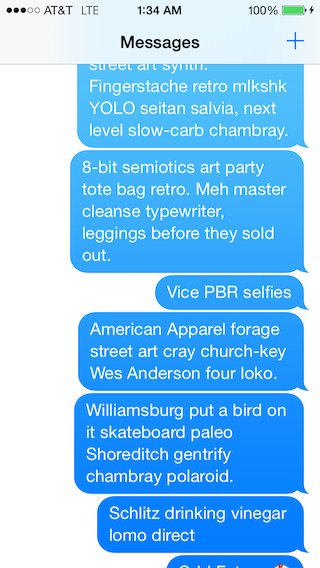
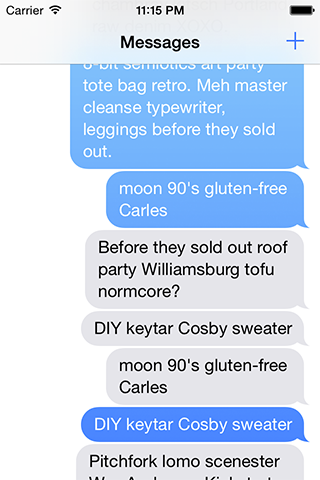
Adding support for non-gradient, gray messages.

diff --git a/GradientMessages/GradientMessages/ViewController.m b/GradientMessages/GradientMessages/ViewController.m
@@ -9,15 +9,18 @@
 #import "ViewController.h"
 #import "MessageBubbleController.h"
 #import "MessageBubbleCell.h"
+#import "Message.h"
 
 @interface ViewController () <UICollectionViewDataSource, UICollectionViewDelegate>
 
 @property (nonatomic, weak) IBOutlet UICollectionView *collectionView;
 @property (nonatomic, strong) MessageBubbleController *messageBubbleController;
 @property (nonatomic, strong) NSMutableArray *messages;
-@property (nonatomic, strong) NSArray *sampleMessages;
+@property (nonatomic, strong) NSArray *sampleMessageStrings;
 
 - (IBAction)addMessage:(id)sender;
+
+- (Message *)createRandomMessage;
 
 @end
 
@@ -31,8 +34,8 @@
 	self.messageBubbleController.collectionViewSize = self.collectionView.bounds.size;
 	self.messages = [NSMutableArray array];
 	
-	NSString *sampleMessagesPath = [[NSBundle mainBundle] pathForResource:@"Messages" ofType:@"plist"];
-	self.sampleMessages = [NSArray arrayWithContentsOfFile:sampleMessagesPath];
+	NSString *sampleMessageStringsPath = [[NSBundle mainBundle] pathForResource:@"Messages" ofType:@"plist"];
+	self.sampleMessageStrings = [NSArray arrayWithContentsOfFile:sampleMessageStringsPath];
 	
 	self.collectionView.delegate = self;
 	self.collectionView.dataSource = self;
@@ -40,10 +43,17 @@
 
 - (IBAction)addMessage:(id)sender
 {
-	int randomIndex = rand() % self.sampleMessages.count ;
-	NSString *randomMessage = self.sampleMessages[ randomIndex ];
-	[self.messages addObject:randomMessage];
+	Message *message = [self createRandomMessage];
+	[self.messages addObject:message];
 	[self.collectionView reloadData];
+}
+
+- (Message *)createRandomMessage
+{
+	int randomIndex = rand() % self.sampleMessageStrings.count;
+	NSString *randomMessageText = self.sampleMessageStrings[ randomIndex ];
+	BOOL randomIsAuthor = rand() % 2;
+	return [[Message alloc] initWithMessageText:randomMessageText isAuthor:randomIsAuthor];
 }
 
 #pragma mark UICollectionViewDataSource
@@ -55,11 +65,11 @@
 
 - (UICollectionViewCell *)collectionView:(UICollectionView *)collectionView cellForItemAtIndexPath:(NSIndexPath *)indexPath
 {
-	NSString *message = (indexPath.row < self.messages.count) ? self.messages[ indexPath.row ] : nil;
+	Message *message = (indexPath.row < self.messages.count) ? self.messages[ indexPath.row ] : nil;
 	MessageBubbleCell *cell = [collectionView dequeueReusableCellWithReuseIdentifier:@"messageCell" forIndexPath:indexPath];
 	if (message && cell) {
 		UICollectionViewLayoutAttributes *attributes = [collectionView layoutAttributesForItemAtIndexPath:indexPath];
-		MessageBubbleViewModel *viewModel = [self.messageBubbleController viewModelForSentMessage:message];
+		MessageBubbleViewModel *viewModel = [self.messageBubbleController viewModelForSentMessage:message.messageText isAuthor:message.isAuthor];
 		[cell setViewModel:viewModel];
 		cell.gradientOffset = (-self.collectionView.contentOffset.y + attributes.frame.origin.y);
 	}
@@ -71,8 +81,8 @@
 
 - (CGSize)collectionView:(UICollectionView *)collectionView layout:(UICollectionViewLayout*)collectionViewLayout sizeForItemAtIndexPath:(NSIndexPath *)indexPath
 {
-	NSString *message = self.messages[ indexPath.row ];
-	MessageBubbleViewModel *viewModel = [self.messageBubbleController viewModelForSentMessage:message];
+	Message *message = self.messages[ indexPath.row ];
+	MessageBubbleViewModel *viewModel = [self.messageBubbleController viewModelForSentMessage:message.messageText isAuthor:message.isAuthor];
 	return [viewModel.layoutSpec cellSize];
 }
 

diff --git a/GradientMessages/GradientMessages/MessageBubbleCell.m b/GradientMessages/GradientMessages/MessageBubbleCell.m
@@ -44,9 +44,19 @@
 {
 	_viewModel = viewModel;
 	
-	self.bubbleMaskLayer.contentsCenter = [viewModel.layoutSpec bubbleMaskLayerContentsCenter];
-
+	if (viewModel.messageBackgroundColor) {
+		[self.gradientLayer removeFromSuperlayer];
+		self.bubbleMaskLayer.backgroundColor = viewModel.messageBackgroundColor.CGColor;
+	}
+	else {
+		[self.layer insertSublayer:self.gradientLayer below:self.bubbleMaskLayer];
+		self.bubbleMaskLayer.backgroundColor = nil;
+	}
+	
 	self.messageLabel.text = viewModel.messageLabelText;
+	self.messageLabel.textColor = viewModel.messageLabelColor;
+	self.bubbleMaskLayer.contentsCenter = [viewModel.layoutSpec bubbleMaskLayerContentsCenter];
+	
 	self.messageLabel.frame = [viewModel.layoutSpec messageLabelFrame];
 	self.gradientLayer.frame = [viewModel.layoutSpec gradientFrame];
 	self.bubbleMaskLayer.frame = [viewModel.layoutSpec bubbleMaskFrame];
@@ -63,6 +73,7 @@
 	NSDictionary *nullImplicitAnims = @{
 		@"position" : [NSNull null],
 		@"bounds" : [NSNull null],
+		@"backgroundColor" : [NSNull null],
 	};
 	
 	self.gradientLayer = [CALayer layer];
@@ -70,7 +81,6 @@
 	self.gradientLayer.anchorPoint = CGPointZero;
 	self.gradientLayer.contentsScale = [UIScreen mainScreen].scale;
 	self.gradientLayer.contents = (id)[UIImage imageNamed:@"BlueGradient"].CGImage;
-	[self.layer addSublayer:self.gradientLayer];
 	
 	self.bubbleMaskLayer = [CALayer layer];
 	self.bubbleMaskLayer.actions = nullImplicitAnims;
@@ -82,7 +92,6 @@
 	self.messageLabel = [[UILabel alloc] init];
 	self.messageLabel.numberOfLines = 0;
 	self.messageLabel.font = [UIFont preferredFontForTextStyle:UIFontTextStyleBody];
-	self.messageLabel.textColor = [UIColor whiteColor];
 	[self addSubview:self.messageLabel];
 }
 

diff --git a/GradientMessages/GradientMessages/MessageBubbleViewModel.m b/GradientMessages/GradientMessages/MessageBubbleViewModel.m
@@ -11,18 +11,22 @@
 @interface MessageBubbleViewModel ()
 
 @property (nonatomic, copy) NSString *messageLabelText;
+@property (nonatomic, strong) UIColor *messageLabelColor;
+@property (nonatomic, strong) UIColor *messageBackgroundColor;
 @property (nonatomic, strong) MessageBubbleLayoutSpec *layoutSpec;
 
 @end
 
 @implementation MessageBubbleViewModel
 
-- (instancetype)initWithMessageLabelText:(NSString *)messageLabelText layoutSpec:(MessageBubbleLayoutSpec *)layoutSpec
+- (instancetype)initWithMessageLabelText:(NSString *)messageLabelText isAuthor:(BOOL)isAuthor layoutSpec:(MessageBubbleLayoutSpec *)layoutSpec
 {
 	self = [super init];
 	if (self) {
 		self.messageLabelText = messageLabelText;
+		self.messageLabelColor = isAuthor ? [UIColor whiteColor] : [UIColor blackColor];
 		self.layoutSpec = layoutSpec;
+		self.messageBackgroundColor = isAuthor ? nil : [UIColor colorWithRed:229.f/255.f green:229.f/255.f blue:234.f/255.f alpha:1.f];
 	}
 	
 	return self;

diff --git a/GradientMessages/GradientMessages/MessageBubbleController.m b/GradientMessages/GradientMessages/MessageBubbleController.m
@@ -10,7 +10,7 @@
 
 @implementation MessageBubbleController
 
-- (MessageBubbleViewModel *)viewModelForSentMessage:(NSString *)sentMessage;
+- (MessageBubbleViewModel *)viewModelForSentMessage:(NSString *)sentMessage isAuthor:(BOOL)isAuthor
 {
 	MessageBubbleLayoutSpec *layoutSpec = [[MessageBubbleLayoutSpec alloc] init];
 	layoutSpec.collectionViewSize = self.collectionViewSize;
@@ -26,7 +26,7 @@
 																		  attributes:@{ NSFontAttributeName : [UIFont preferredFontForTextStyle:UIFontTextStyleBody] }
 																			  context:nil].size;
 
-	return [[MessageBubbleViewModel alloc] initWithMessageLabelText:sentMessage layoutSpec:layoutSpec];
+	return [[MessageBubbleViewModel alloc] initWithMessageLabelText:sentMessage isAuthor:isAuthor layoutSpec:layoutSpec];
 }
 
 @end

diff --git a/GradientMessages/GradientMessages/MessageBubbleViewModel.h b/GradientMessages/GradientMessages/MessageBubbleViewModel.h
@@ -13,8 +13,10 @@
 @interface MessageBubbleViewModel : NSObject
 
 @property (nonatomic, copy, readonly) NSString *messageLabelText;
+@property (nonatomic, strong, readonly) UIColor *messageLabelColor;
+@property (nonatomic, strong, readonly) UIColor *messageBackgroundColor;
 @property (nonatomic, strong, readonly) MessageBubbleLayoutSpec *layoutSpec;
 
-- (instancetype)initWithMessageLabelText:(NSString *)messageLabelText layoutSpec:(MessageBubbleLayoutSpec *)layoutSpec;
+- (instancetype)initWithMessageLabelText:(NSString *)messageLabelText isAuthor:(BOOL)isAuthor layoutSpec:(MessageBubbleLayoutSpec *)layoutSpec;
 
 @end

diff --git a/GradientMessages/GradientMessages/Message.m b/GradientMessages/GradientMessages/Message.m
@@ -1,0 +1,31 @@
+//
+//  Message.m
+//  GradientMessages
+//
+//  Created by Mark Stultz on 5/21/14.
+//  Copyright (c) 2014 Mark Stultz. All rights reserved.
+//
+
+#import "Message.h"
+
+@interface Message ()
+
+@property (nonatomic, copy) NSString *messageText;
+@property (nonatomic, assign) BOOL isAuthor;
+
+@end
+
+@implementation Message
+
+- (instancetype)initWithMessageText:(NSString *)messageText isAuthor:(BOOL)isAuthor
+{
+	self = [super init];
+	if (self) {
+		self.messageText = messageText;
+		self.isAuthor = isAuthor;
+	}
+	
+	return self;
+}
+
+@end

diff --git a/GradientMessages/GradientMessages/Message.h b/GradientMessages/GradientMessages/Message.h
@@ -1,0 +1,18 @@
+//
+//  Message.h
+//  GradientMessages
+//
+//  Created by Mark Stultz on 5/21/14.
+//  Copyright (c) 2014 Mark Stultz. All rights reserved.
+//
+
+@import Foundation;
+
+@interface Message : NSObject
+
+@property (nonatomic, copy, readonly) NSString *messageText;
+@property (nonatomic, assign, readonly) BOOL isAuthor;
+
+- (instancetype)initWithMessageText:(NSString *)messageText isAuthor:(BOOL)isAuthor;
+
+@end

diff --git a/GradientMessages/GradientMessages/MessageBubbleController.h b/GradientMessages/GradientMessages/MessageBubbleController.h
@@ -14,6 +14,6 @@
 
 @property (nonatomic, assign, readwrite) CGSize collectionViewSize;
 
-- (MessageBubbleViewModel *)viewModelForSentMessage:(NSString *)sentMessage;
+- (MessageBubbleViewModel *)viewModelForSentMessage:(NSString *)sentMessage isAuthor:(BOOL)isAuthor;
 
 @end
